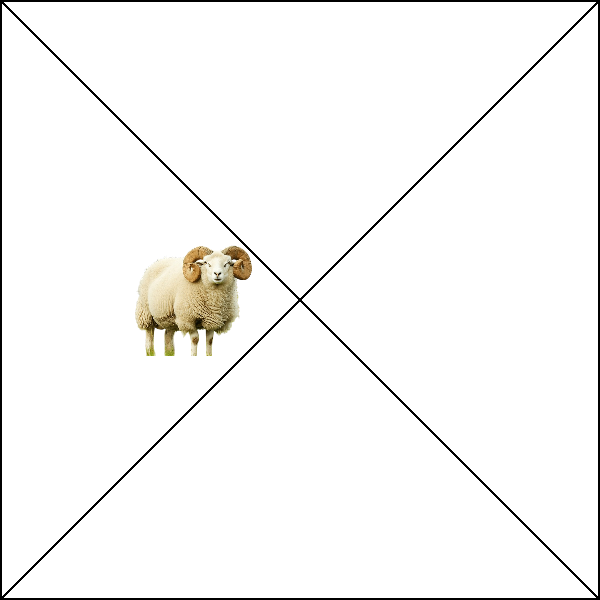
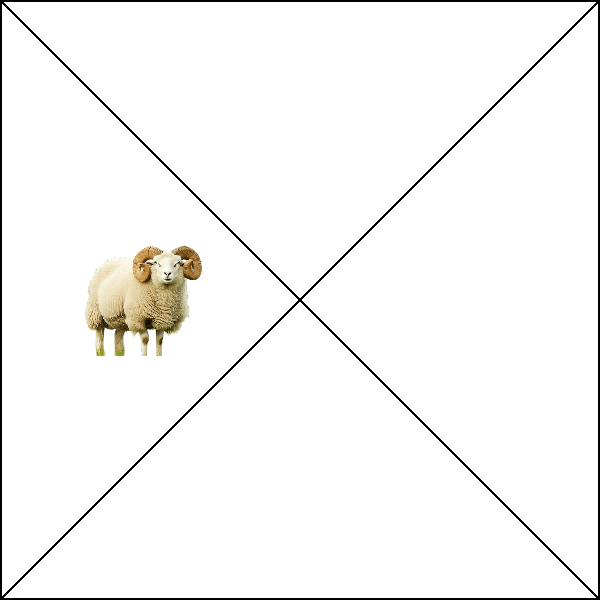
выровненный вариант

Changed region(s): [[0.12, 0.39, 0.42, 0.6]]

diff --git a/generate_level.py b/generate_level.py
@@ -58,7 +58,7 @@ def place_image(
     background.save(output_path)
 
 
-place_image('field/1.png', 'images_generate/1.png', 'result.png', (100, 200))
+place_image('field/1.png', 'images_generate/1.png', 'result.png', (50, 200))
 # нумерация в блоке:
 #    1
 #  0   2
